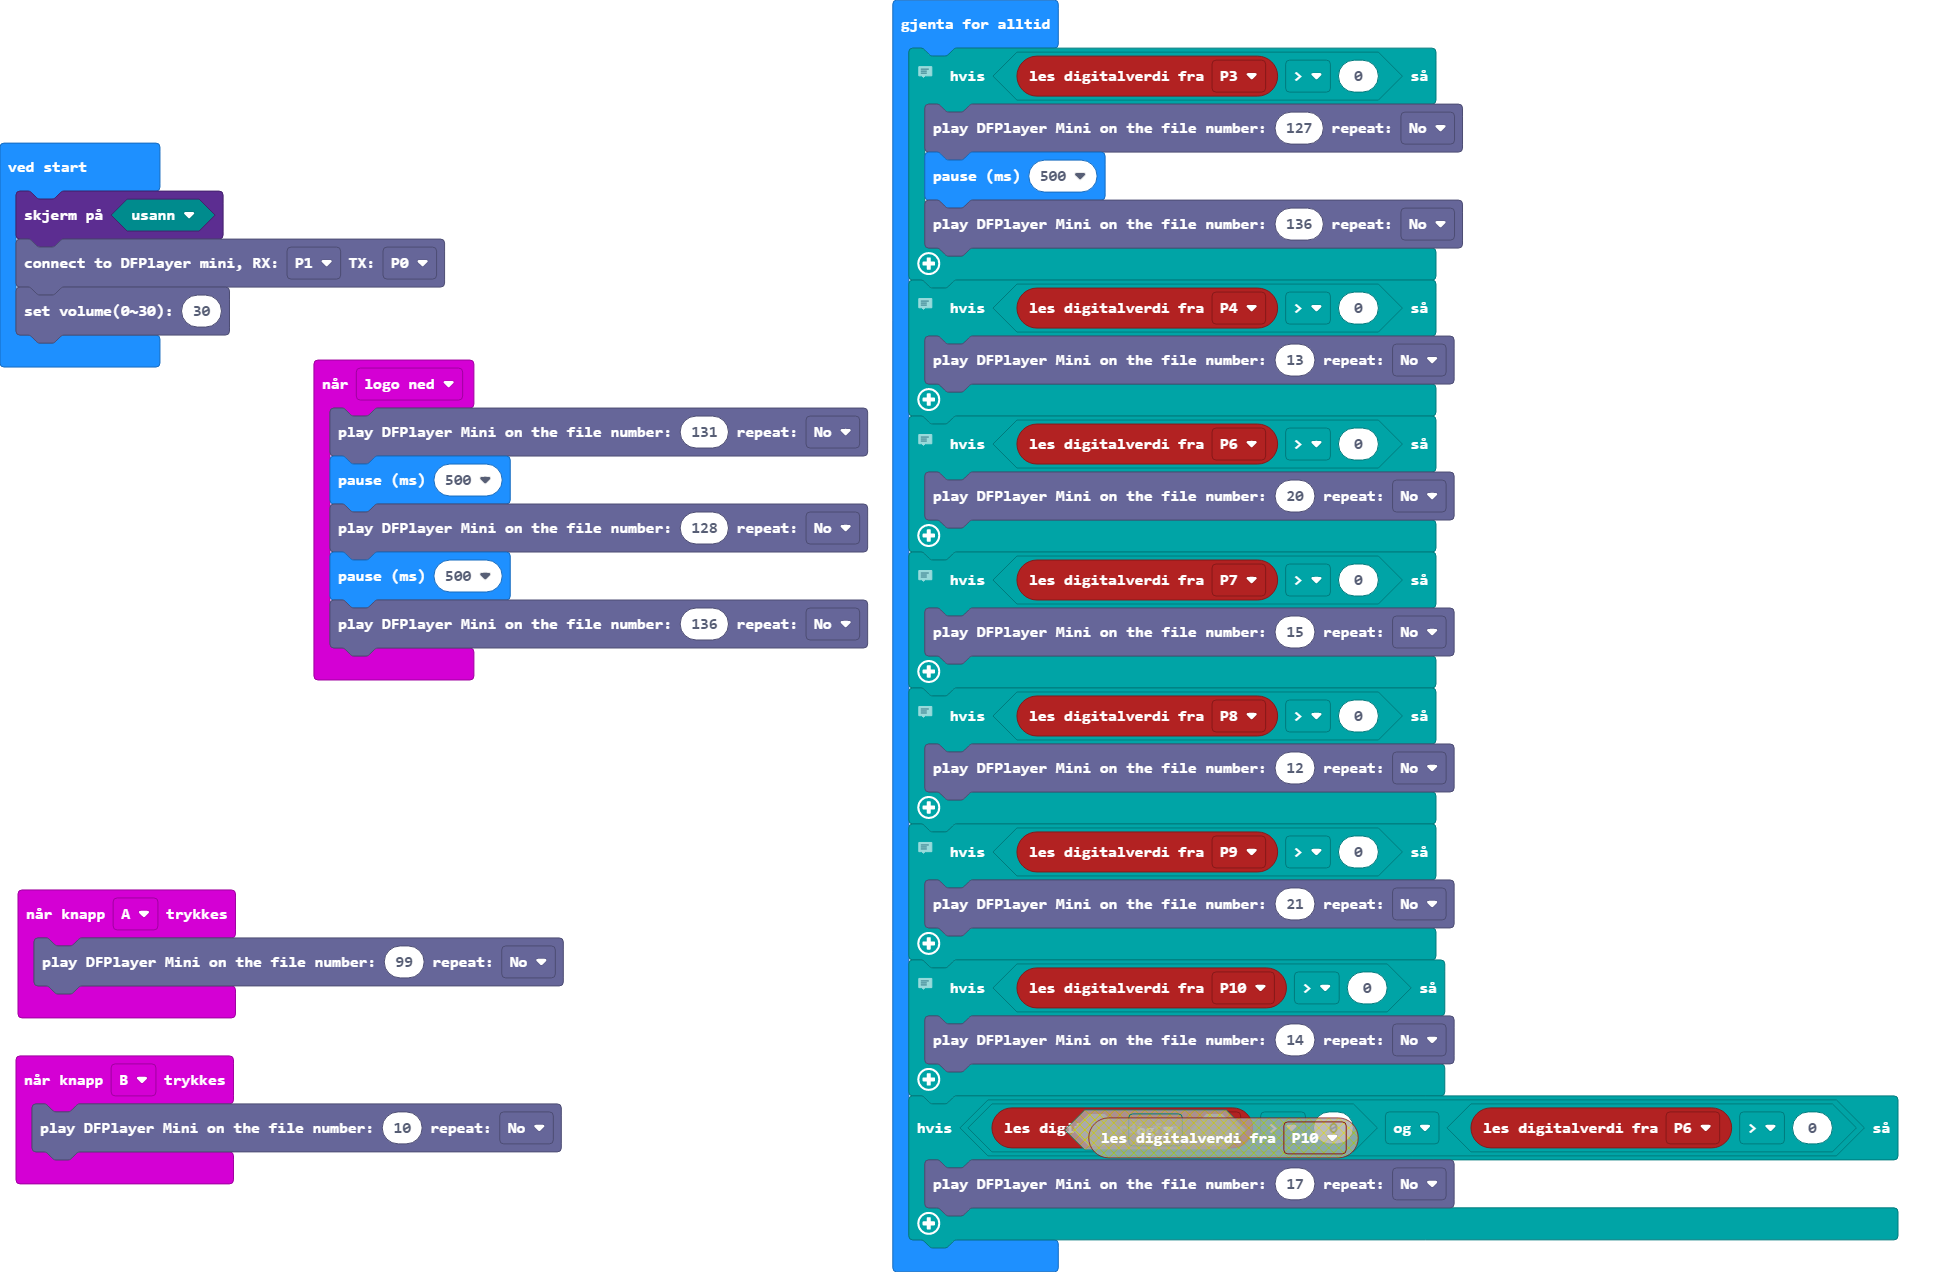
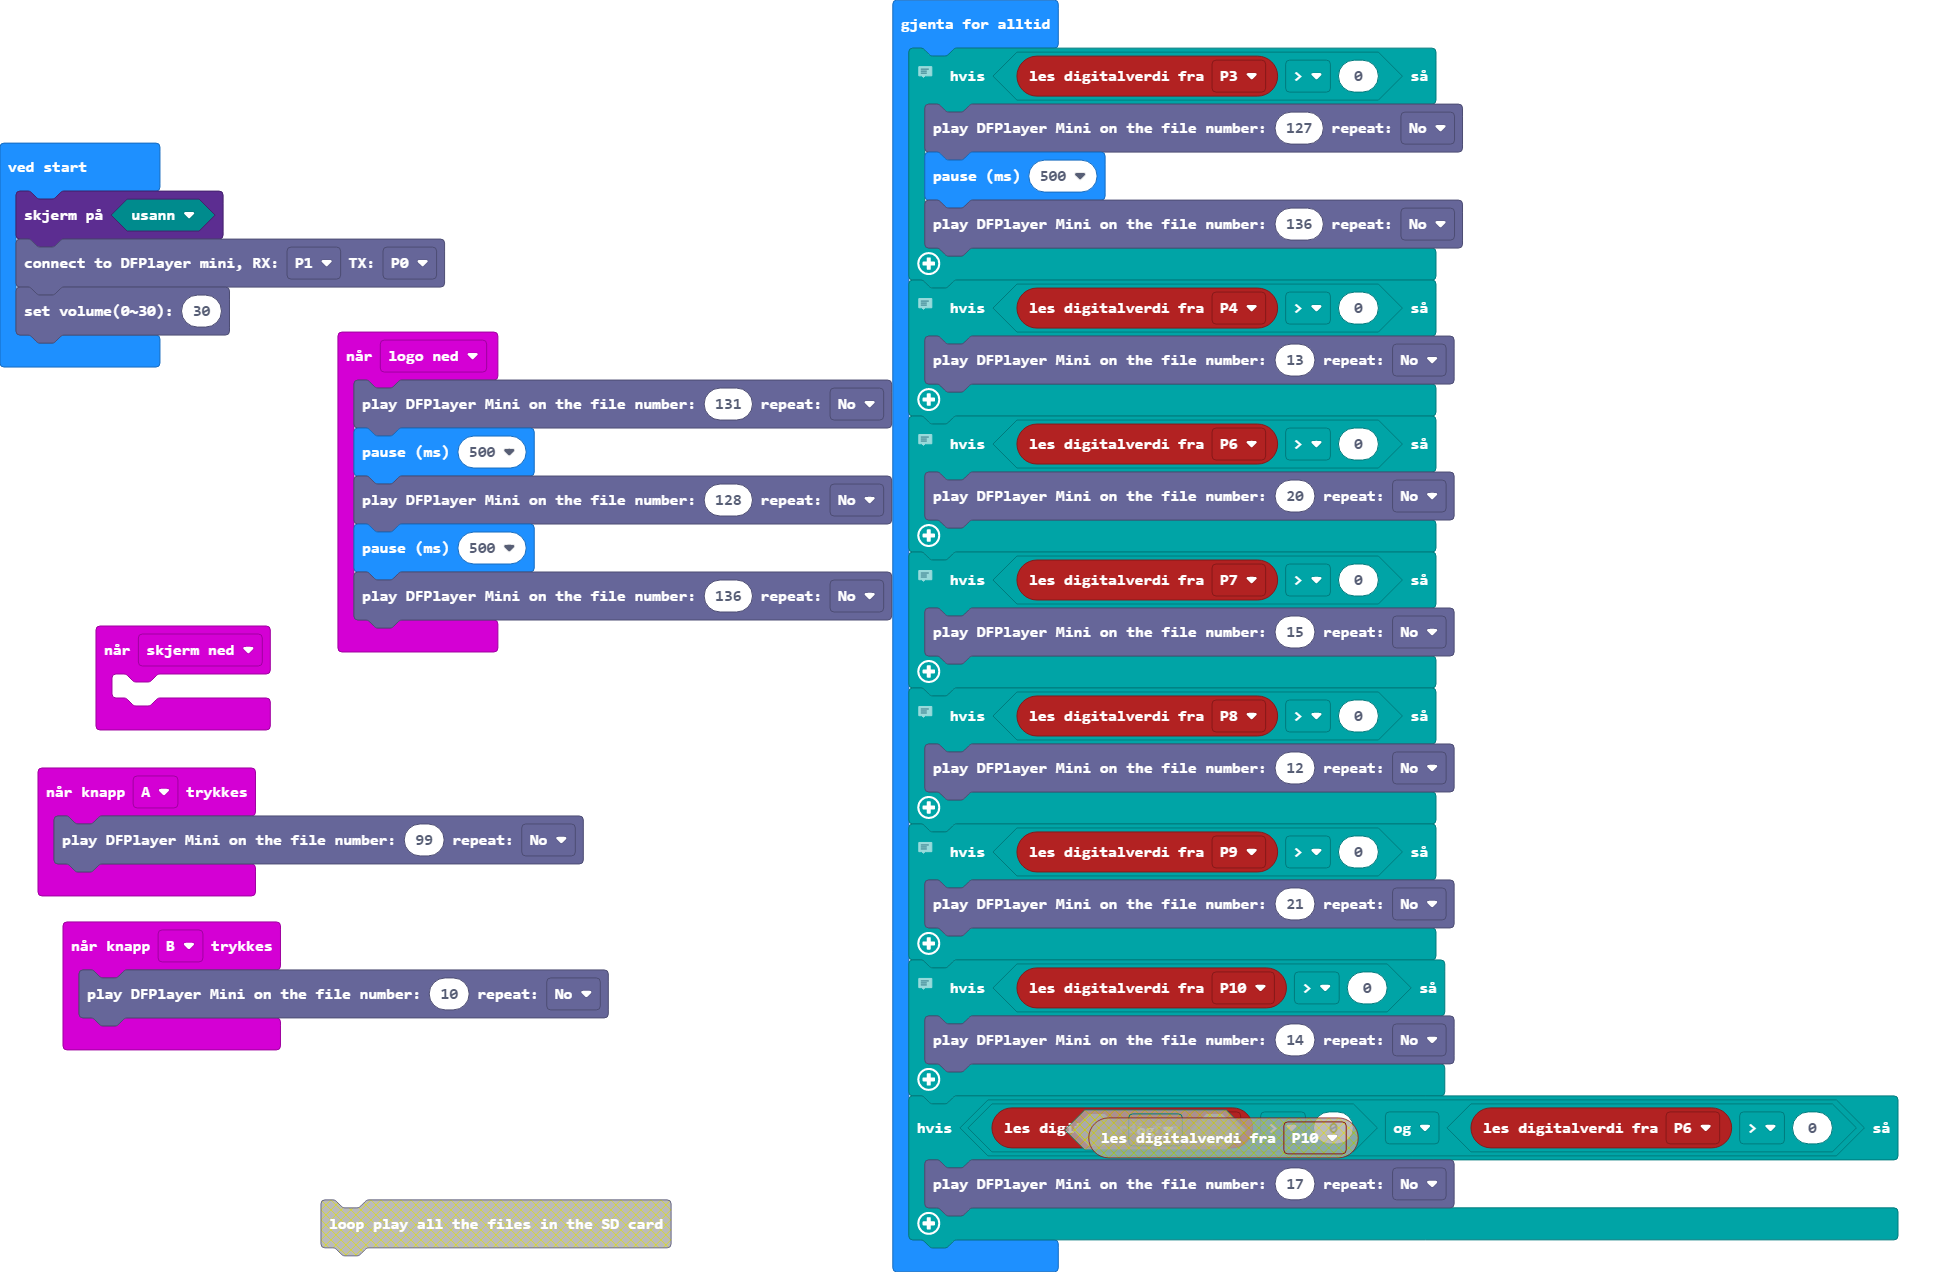
Oppdater main.blocks, main.ts

Changed region(s): [[0.0, 0.2453, 0.4615, 1.0]]

diff --git a/main.ts b/main.ts
@@ -1,6 +1,9 @@
 input.onButtonPressed(Button.A, function () {
     dfplayermini.playFile(99, dfplayermini.isRepeat.No)
 })
+input.onGesture(Gesture.ScreenDown, function () {
+	
+})
 input.onButtonPressed(Button.B, function () {
     dfplayermini.playFile(10, dfplayermini.isRepeat.No)
 })
